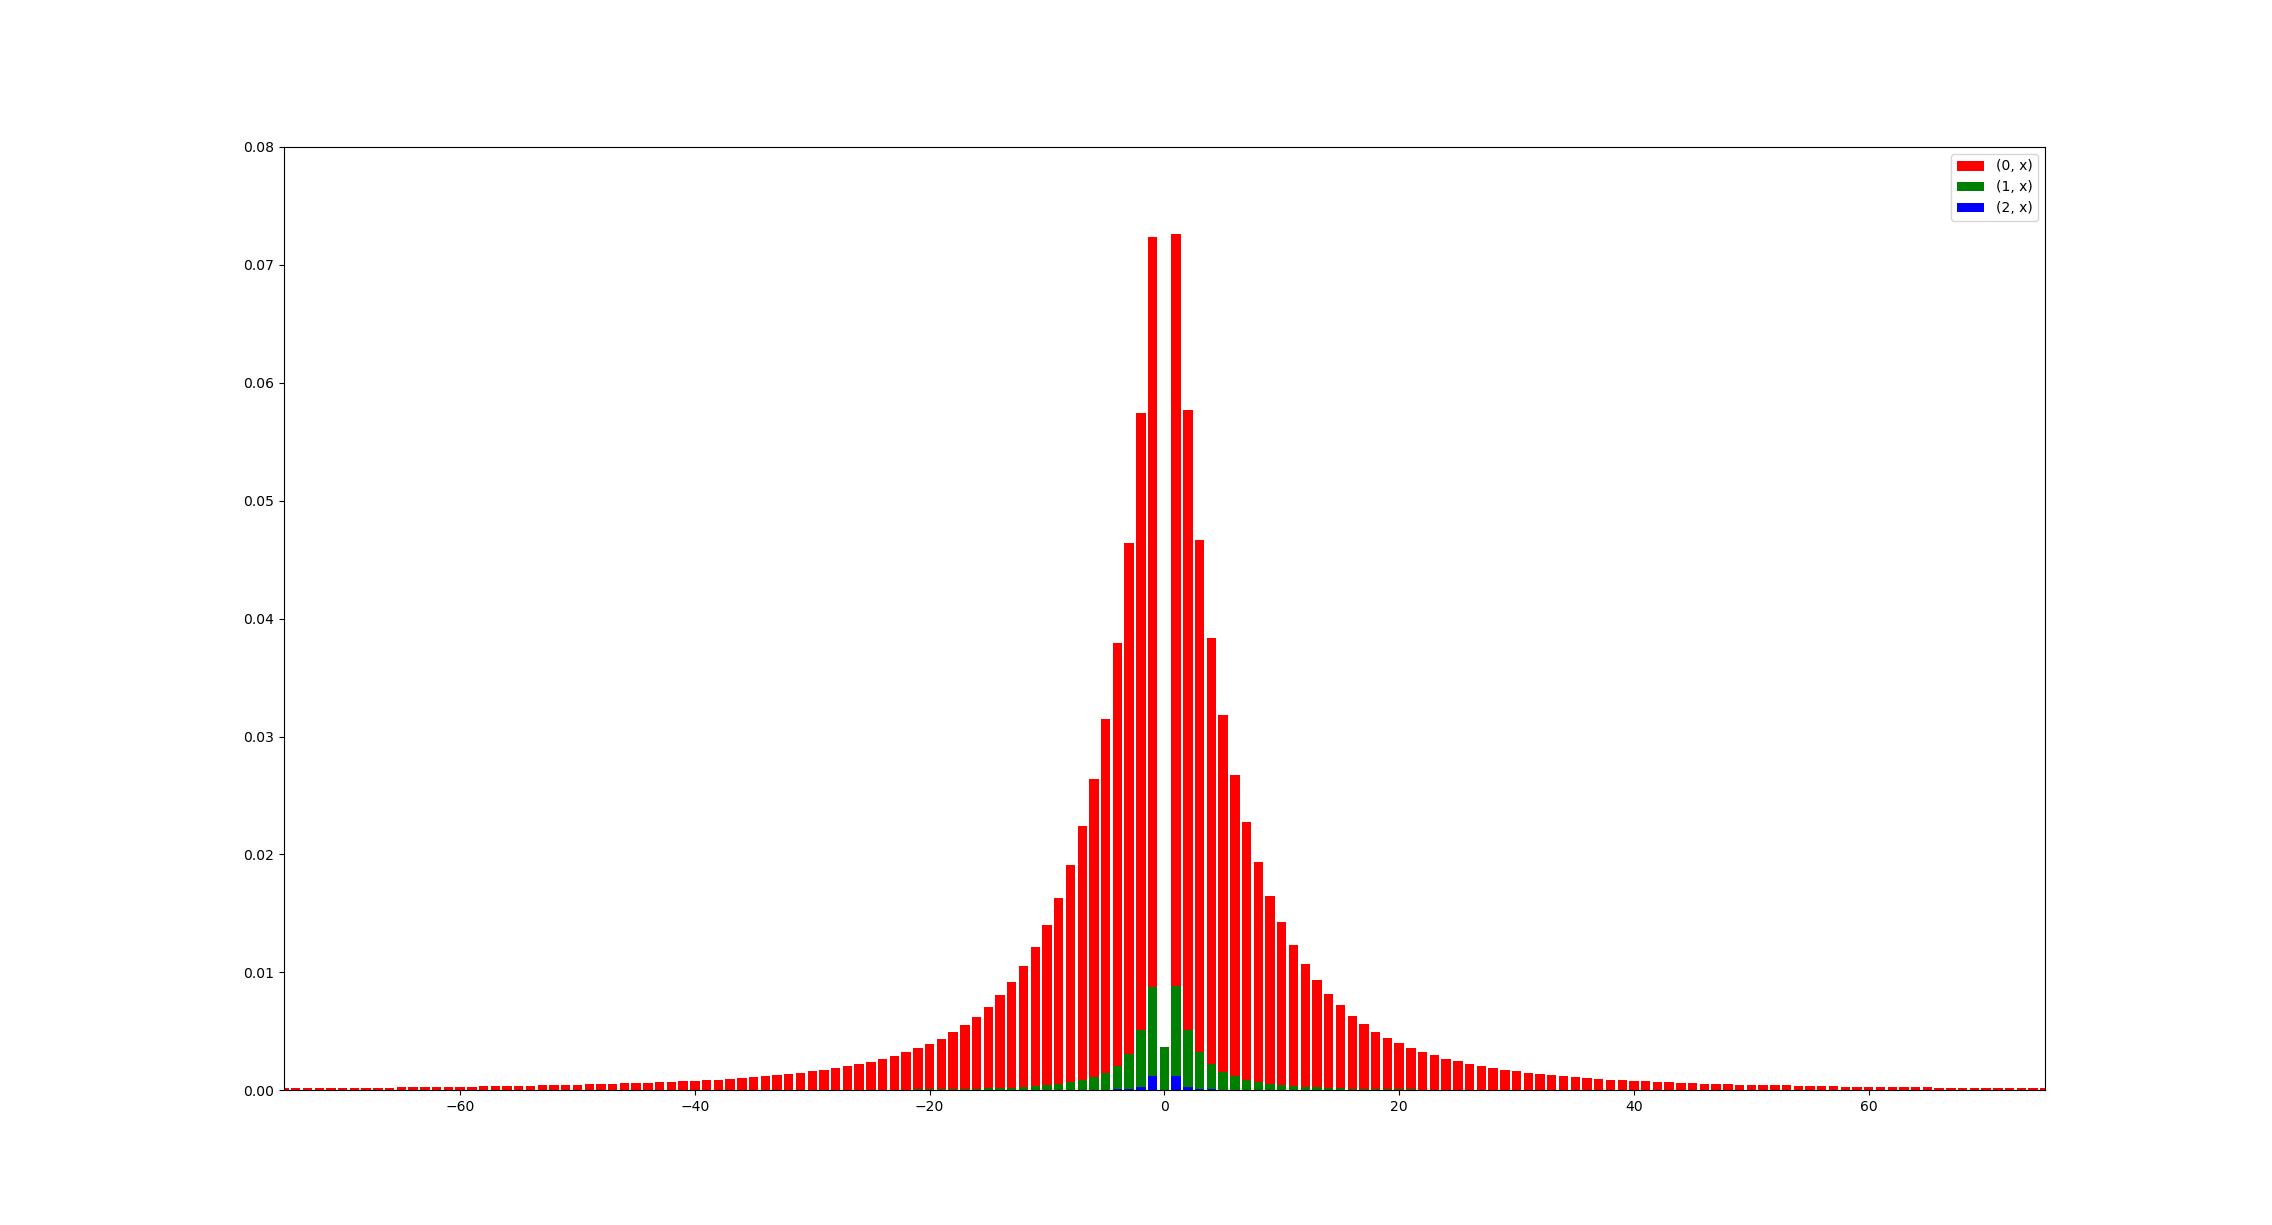
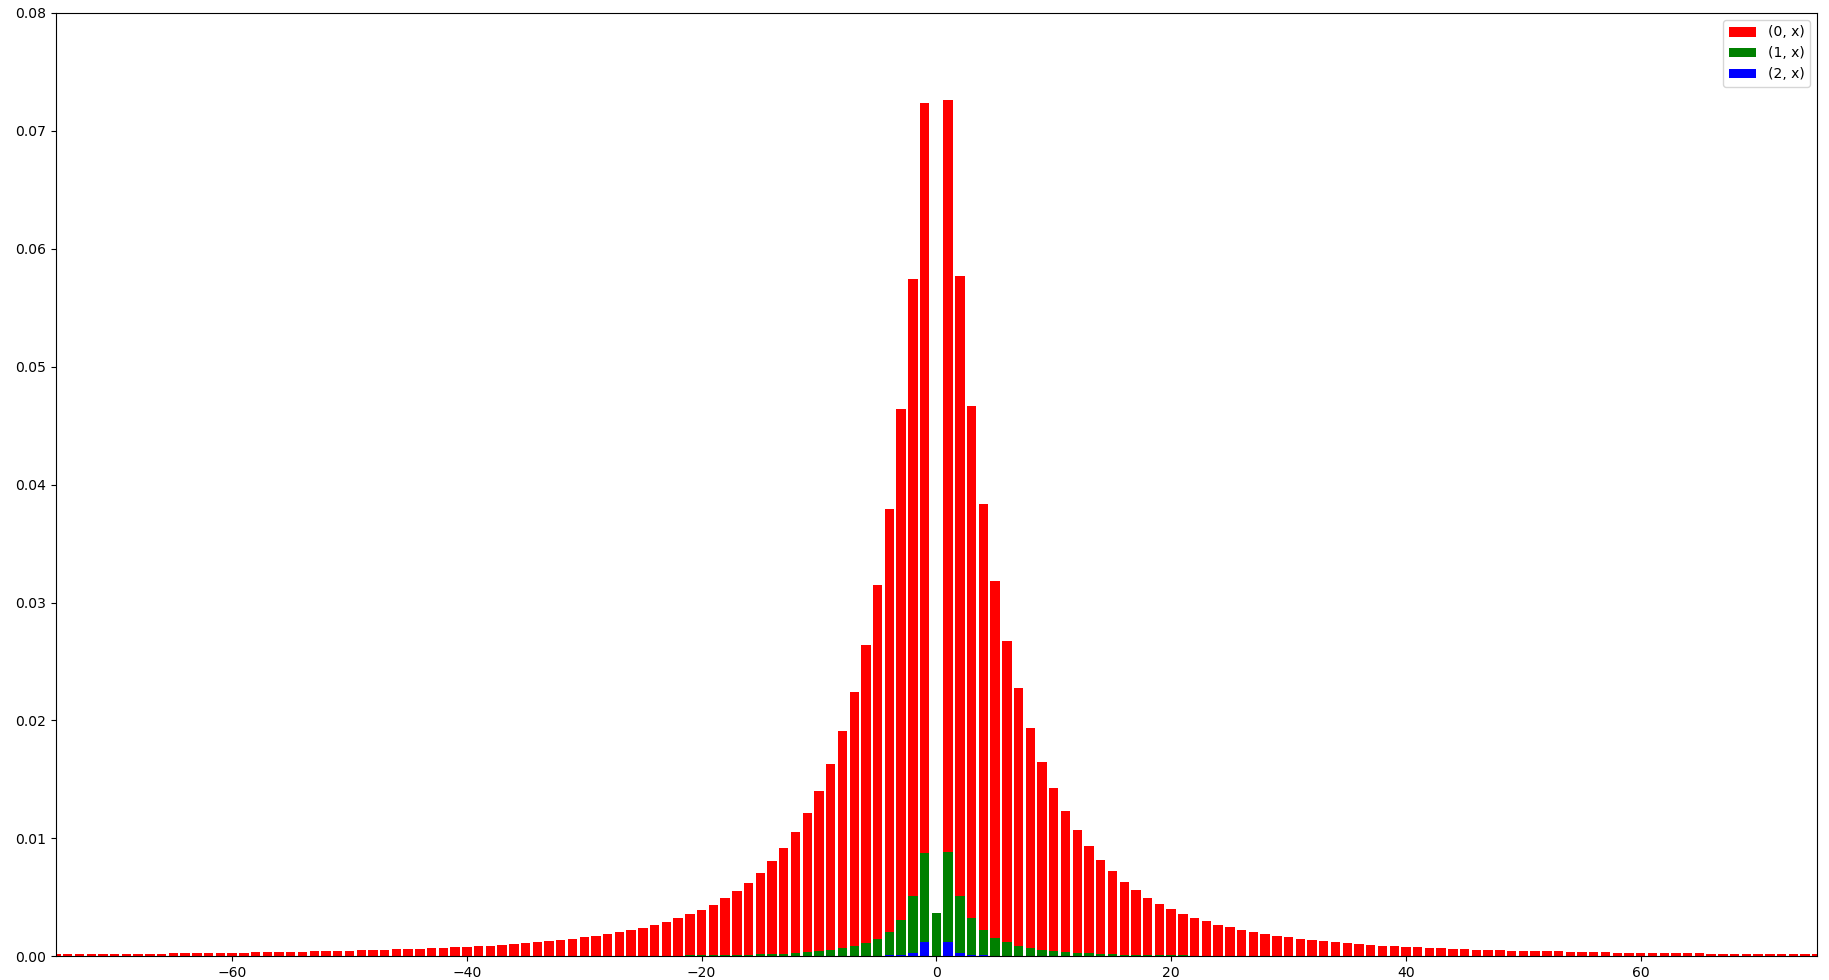
Fixed typo sigma -> omega. Updated README.md

diff --git a/src/embedder/embedder.cpp b/src/embedder/embedder.cpp
@@ -21,7 +21,7 @@ namespace rdh {
         huffmanCoder.SetFrequencies(consts::huffman::c_DefaultFrequencies);
 
 #if DEBUG_STATS == 1
-        uint32_t sigmaOneBlocks{ 0 };
+        uint32_t omegaOneBlocks{ 0 };
 #endif
 
         for (uint32_t imgY = 0; imgY < t_EncryptedImage.GetHeight(); imgY += 2) {
@@ -36,33 +36,36 @@ namespace rdh {
                     t_EncryptedImage.GetPixel(imgY + 1, imgX + 1)
                 );
 
+                EncodedBlock& currEncodedBlock = encodedBlocks.back();
+
                 /**
                  * Second step. Encode each rlc-encoded block using Huffman coding.
                  */
-                if (encodedBlocks.back().GetRlcEncoded().size() == 1 &&
-                    encodedBlocks.back().GetRlcEncoded().at(0) == std::pair<uint16_t, Color16s>(0, 0)) {
+                if (currEncodedBlock.GetRlcEncoded().size() == 1 &&
+                    currEncodedBlock.GetRlcEncoded().at(0) == std::pair<uint16_t, Color16s>(0, 0)) {
                     // Special case. All differences are equal to zero.
                     // In this scenario, huffman keyword length is 0.
-                    encodedBlocks.back().SetEncoded("");
+                    currEncodedBlock.SetEncoded("");
                 }
                 else {
                     // We know, that the last element will always be non-zero
                     // @sa EncodedBlock::EncodedBlock
-                    encodedBlocks.back().SetEncoded(huffmanCoder.Encode(encodedBlocks.back().GetRlcEncoded()));
+                    currEncodedBlock.SetEncoded(huffmanCoder.Encode(currEncodedBlock.GetRlcEncoded()));
+                    assert(currEncodedBlock.GetEncoded().size() > 0);
                 }
 
                 /**
-                 * Third step. Determine, if a block belongs to sigma one or not.
+                 * Third step. Determine, if a block belongs to omega one or not.
                  */
-                if (encodedBlocks.back().GetEncoded().size() < consts::c_Threshold) {
-                    encodedBlocks.back().SetIsSigmaOne(true);
+                if (currEncodedBlock.GetEncoded().size() < consts::c_Threshold) {
+                    currEncodedBlock.SetIsOmegaOne(true);
 #if DEBUG_STATS == 1
-                    ++sigmaOneBlocks;
+                    ++omegaOneBlocks;
 #endif
                 }
                 else {
                     /**
-                     * Fourth step. Block doesn't belong to sigma_1.
+                     * Fourth step. Block doesn't belong to omega_1.
                      * So encode it using LSB compression.
                      */
 
@@ -72,8 +75,8 @@ namespace rdh {
 
 #if DEBUG_STATS == 1
         BOOST_LOG_TRIVIAL(info) << "Total blocks: " << encodedBlocks.size();
-        BOOST_LOG_TRIVIAL(info) << "Sigma one blocks: " << sigmaOneBlocks;
-        BOOST_LOG_TRIVIAL(info) << "Ratio is: " << (double)sigmaOneBlocks / (double)encodedBlocks.size() << sigmaOneBlocks;
+        BOOST_LOG_TRIVIAL(info) << "Omega one blocks: " << omegaOneBlocks;
+        BOOST_LOG_TRIVIAL(info) << "Ratio is: " << (double)omegaOneBlocks / (double)encodedBlocks.size() << omegaOneBlocks;
 #endif
 
         return std::move(encryptedEmbedded);

diff --git a/src/embedder/encoded_block.h b/src/embedder/encoded_block.h
@@ -12,7 +12,7 @@ namespace rdh {
     class EncodedBlock {
     public:
         EncodedBlock(Color8u t_Pixel1, Color8u t_Pixel2, Color8u t_Pixel3, Color8u t_Pixel4) :
-            m_Pixel1{ t_Pixel1 }, m_Pixel2{ t_Pixel2 }, m_Pixel3{ t_Pixel3 }, m_Pixel4{ t_Pixel4 }, m_IsSigmaOne{ false }
+            m_Pixel1{ t_Pixel1 }, m_Pixel2{ t_Pixel2 }, m_Pixel3{ t_Pixel3 }, m_Pixel4{ t_Pixel4 }, m_IsOmegaOne{ false }
         {
             /**
              * Difference can be a negative number!
@@ -68,14 +68,14 @@ namespace rdh {
             return m_RlcEncoded;
         }
 
-        const bool IsSigmaOne()
+        const bool IsOmegaOne()
         {
-            return m_IsSigmaOne;
+            return m_IsOmegaOne;
         }
 
-        void SetIsSigmaOne(bool t_IsSigmaOne)
+        void SetIsOmegaOne(bool t_IsOmegaOne)
         {
-            m_IsSigmaOne = t_IsSigmaOne;
+            m_IsOmegaOne = t_IsOmegaOne;
         }
 
         void SetEncoded(const std::string& t_Encoded)
@@ -121,8 +121,8 @@ namespace rdh {
         std::string m_Encoded;
 
         /**
-         * @brief Shows, that current block refers to the sigma 1 set. (l_m < T)
+         * @brief Shows, that current block refers to the omega 1 set. (l_m < T)
         */
-        bool m_IsSigmaOne;
+        bool m_IsOmegaOne;
     };
 }

diff --git a/src/embedder/consts.h b/src/embedder/consts.h
@@ -1548,6 +1548,6 @@ namespace rdh {
         /**
          * @brief Default threshold for block classification
         */
-        const uint16_t c_Threshold{ 24 };
+        const uint16_t c_Threshold{ 20 };
     }
 }

diff --git a/README.md b/README.md
@@ -13,7 +13,6 @@
 ![decrypted](./images/lena_gray.bmp)
 
 3. Example data embedding: `reversible_data_hiding_run.exe --mode embed --image-path ..\..\..\..\images\lena_gray-enc.bmp --result-path ..\..\..\..\images\lena_gray-enc-embed.bmp --embed-key-file ..\..\..\..\example_embed_key.bin --data-file ..\..\..\..\example_data_to_embed.bin`  
-![encrypted](./images/lena_gray-enc-embed.bmp)
 
 ### Performance
 
@@ -62,28 +61,15 @@ EncryptMan_2048x2048_bench           29.8 ms         6.00 ms          112
 EncryptMan_4096x4096_bench           74.1 ms         11.7 ms           56
 ```
 
-- Possible micro optimizations:
-  - ~~Divide image into blocks, and allow each thread-worker to work with each part of the image simultaneously~~
-  - ~~Intrinsics and vector instructions~~ (didn't work) (info links are commented)
-    <!---
-    - https://software.intel.com/content/www/us/en/develop/articles/introduction-to-intel-advanced-vector-extensions.html
-    - https://software.intel.com/sites/landingpage/IntrinsicsGuide/
-    - https://docs.microsoft.com/en-us/cpp/intrinsics/x64-amd64-intrinsics-list?view=msvc-160
-    - http://sci.tuomastonteri.fi/programming/sse
-    - https://stackoverflow.com/questions/1389712/getting-started-with-intel-x86-sse-simd-instructions
-    - https://users.ece.cmu.edu/~franzf/teaching/slides-18-645-simd.pdf
-    -->  
-- ~~replace `std::vector<std::vector<Color8>>` with just one-dim matrix (cache optimizations)~~ (already done by compiler in release build)
-
 ### Program modules
 
 - ~~Image matrix Class~~
 - ~~Image Loader - Loads bmp image and converts it to the matrix of colours~~
 - ~~Encryptor - Encrypts image using XOR encryption~~
 - Data Hider
-  - Pre-encoder
-  - Block Classificator
-  - Compressor (RLC + LSB)
+  - ~~Pre-encoder~~
+  - ~~Block Classificator~~
+  - Compressor (~~RLC~~ + LSB)
   - Embedder
 - Data Extractor
   - Data Extractor
